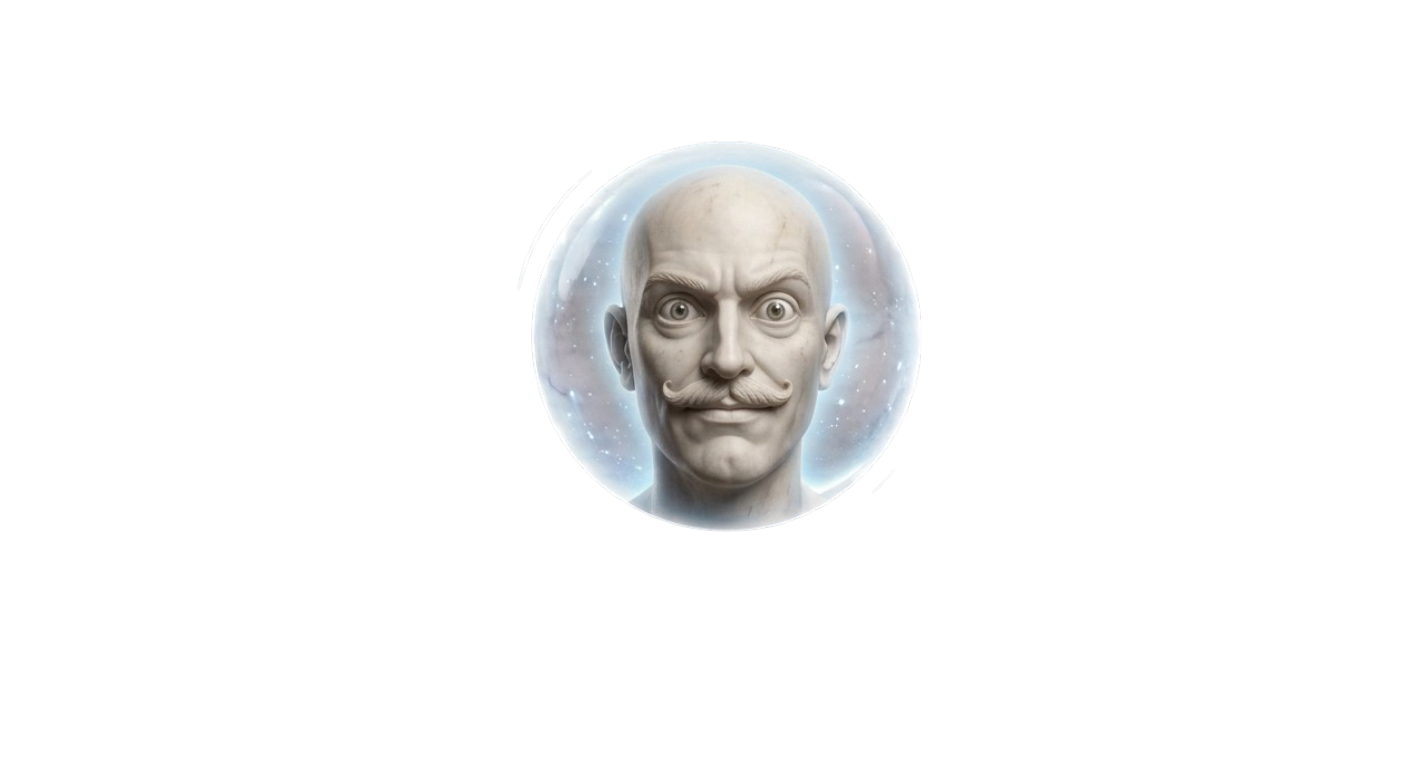
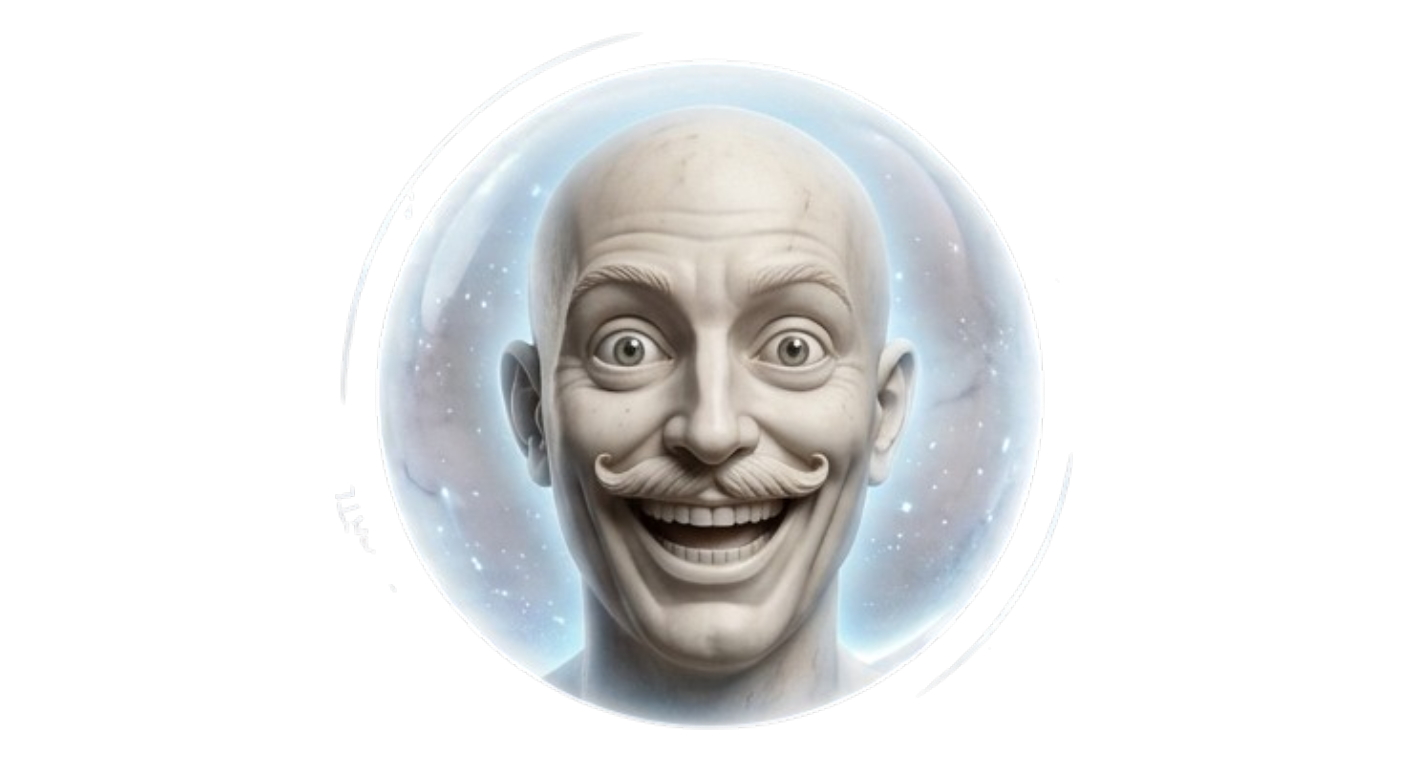
feat: metsy corregido

Changed region(s): [[0.25, 0.0938, 0.75, 0.9688]]

diff --git a/Methub/css/styles.css b/Methub/css/styles.css
@@ -38,8 +38,8 @@ body {
 }
 
 #metsy-container.metsy-in-navbar #metsy-avatar {
-    width: 44px;
-    height: 44px;
+    width: 100px;
+    height: 100px;
 }
 
 /* El chat, cuando Metsy vive en el navbar, cuelga fijo debajo de la barra
@@ -176,8 +176,8 @@ body {
 }
 
 #metsy-avatar {
-    width: 120px;       
-    height: 120px;      
+    width: 200px;       
+    height: 200px;      
     object-fit: contain;
     transition: transform 0.3s cubic-bezier(0.175, 0.885, 0.32, 1.275); 
     filter: drop-shadow(0 6px 14px rgba(0, 0, 0, 0.12));

diff --git a/Methub/js/components/metsy.js b/Methub/js/components/metsy.js
@@ -178,10 +178,7 @@ function irANodo(nodoId) {
     
     if (nodoId === 'fin' || nodoId === 'inicio') {
         avatar.src = 'assets/metsy_base.png';
-    } else {
-        avatar.src = 'assets/metsy_consulta.png'; 
     }
-
     globo.style.opacity = 0;
     setTimeout(() => {
         globo.textContent = nodo.texto;